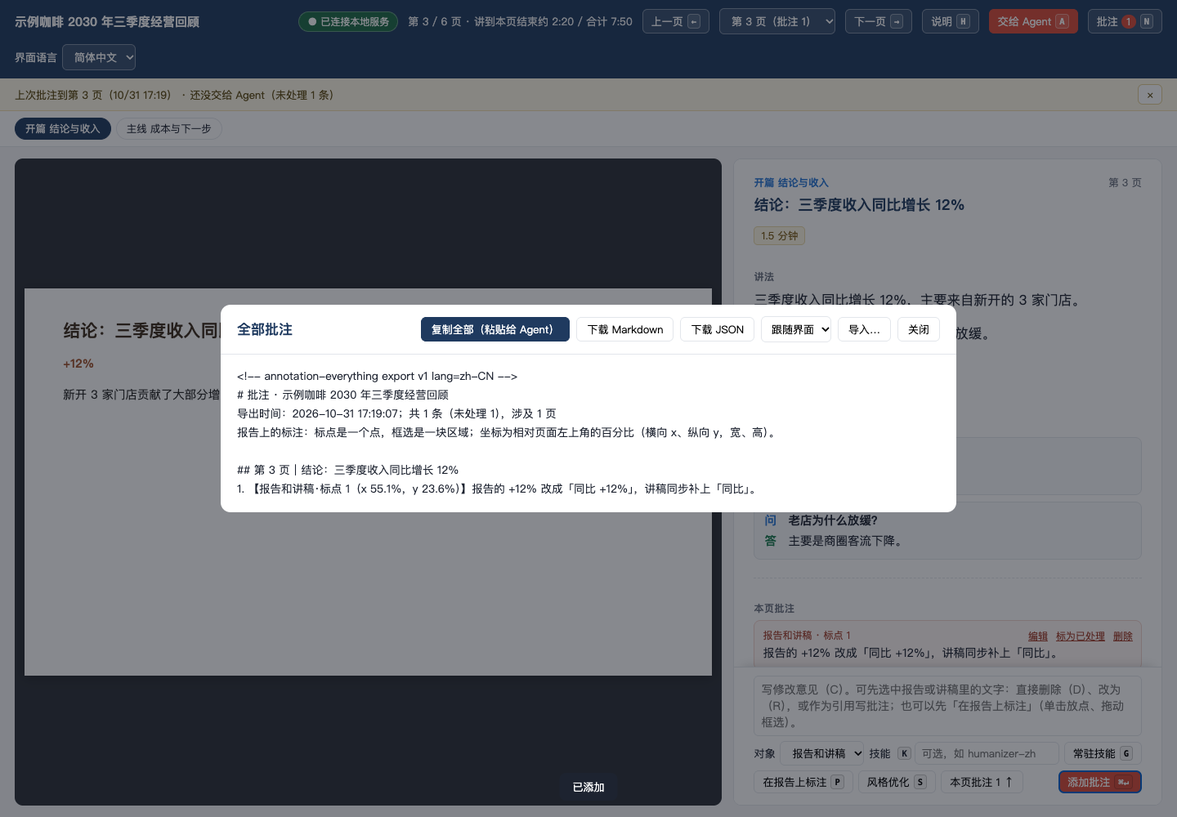
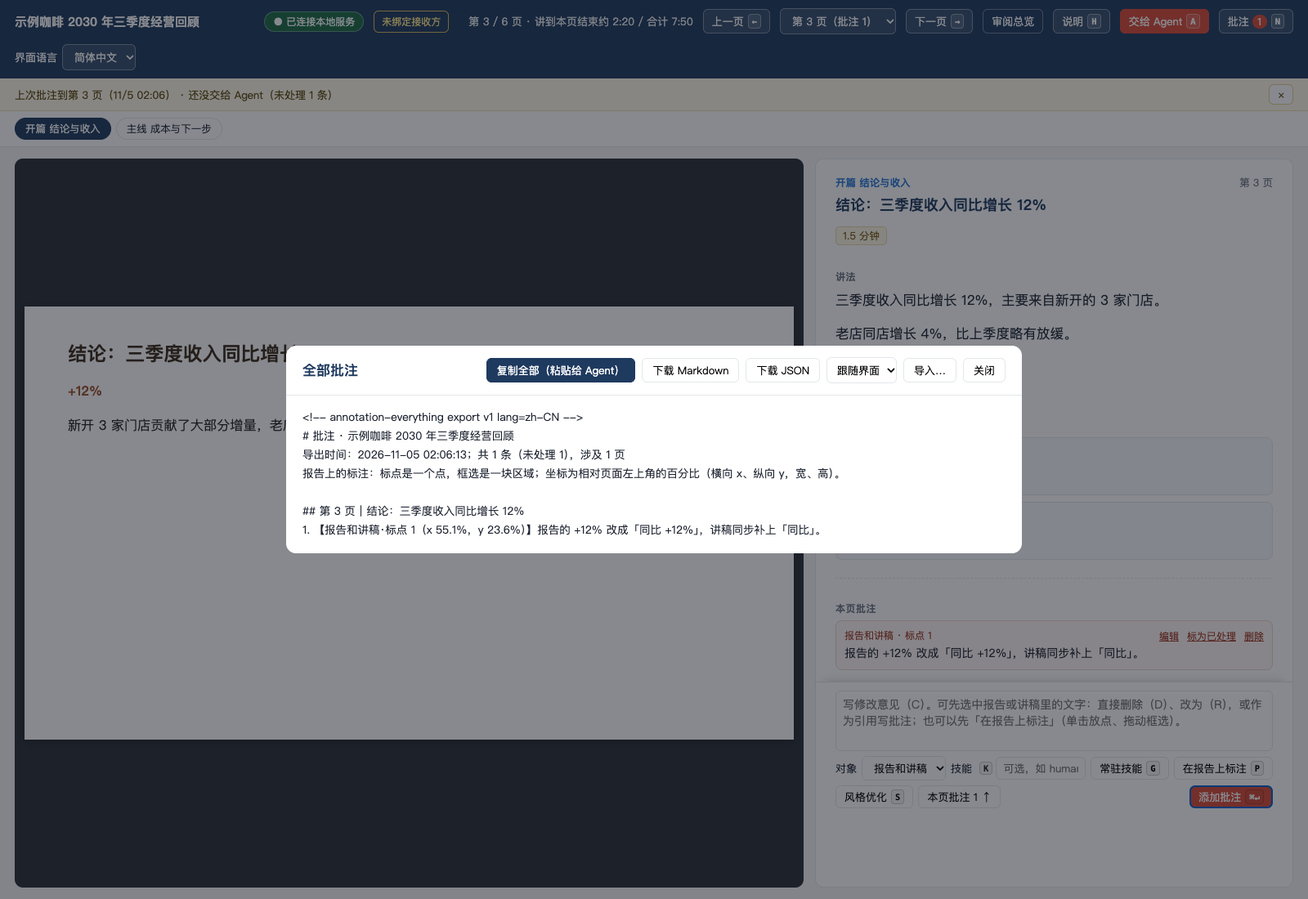
docs: 完善审阅总览指引与合成配图

diff --git a/tests/e2e_browser.py b/tests/e2e_browser.py
@@ -369,6 +369,66 @@ def review_overview_checks(browser, tmp: Path):
                                    "#overviewDetail dt, #overviewDetail h3, .overview-actions").all_text_contents()
         ok(not any("\u4e00" <= char <= "\u9fff" for char in "".join(system_copy)),
            "英文总览的系统文案没有中文残留")
+        artifacts = os.environ.get("AE_OVERVIEW_ARTIFACTS")
+        if artifacts:
+            output = Path(artifacts)
+            output.mkdir(parents=True, exist_ok=True)
+            # 行为断言完成后，用同一组合成审阅采集文档截图。
+            # 保留真实列表与 API，只把安全用例的正文换成可读的报告样例。
+            page.click("#overviewBack")
+            page.wait_for_function("() => !document.body.classList.contains('overview-mode')")
+            add_note(page, "请写清收入增长的对比期间（合成批注）")
+            page.click("#handBtn")
+            page.fill("#handMsg", "请同步核对报告和讲稿（合成提交）")
+            page.click("#doHand")
+            target_info = stopped / ".annotation-server.json"
+            target_port = json.loads(target_info.read_text())["port"]
+            target_url = f"http://127.0.0.1:{target_port}"
+            response = ctx.request.post(target_url + "/api/server/stop", data={},
+                                        headers={"Origin": target_url, "X-AE-Review": stopped_id,
+                                                 "Content-Type": "application/json"})
+            if not response.ok or not wait_until(lambda: not target_info.exists(), page, 5):
+                raise RuntimeError("截图前未能停止合成目标审阅")
+            archived_sample = workspace / "archived"
+            build(archived_sample, name="Sample Coffee · Previous review")
+            archived_id = json.loads((archived_sample / "review.json").read_text())["reviewId"]
+            source_url = f"http://127.0.0.1:{port}"
+            response = ctx.request.post(source_url + "/api/overview/archive",
+                                        data={"reviewId": archived_id, "archived": True},
+                                        headers={"Origin": source_url, "X-AE-Review": current_id,
+                                                 "Content-Type": "application/json"})
+            if not response.ok:
+                raise RuntimeError("截图前未能归档合成样例")
+            samples = (
+                ("zh-CN", "zh", "示例咖啡 · 三季度经营回顾", "示例咖啡 · 成本复盘",
+                 "汇总三季度经营表现，重点复核增长来源与成本变化。",
+                 {"purpose": "为下一季度经营安排提供依据", "audience": "经营委员会",
+                  "coreQuestions": ["收入增长由哪些因素带动？", "哪些成本需要进一步核实？"]}),
+                ("en", "en", "Sample Coffee · Q3 business review", "Sample Coffee · Cost review",
+                 "Review Q3 business performance, with a focus on growth drivers and changes in costs.",
+                 {"purpose": "Inform next quarter's operating plan", "audience": "Operating committee",
+                  "coreQuestions": ["What drove revenue growth?", "Which costs need further verification?"]}),
+            )
+            for locale, suffix, current_name, stopped_name, summary, request in samples:
+                source_report = FIXTURE / ("report.en.html" if locale == "en" else "report.html")
+                source_script = FIXTURE / ("script.en.md" if locale == "en" else "script.md")
+                shutil.copyfile(source_report, report)
+                record.update(summary=summary, request=request)
+                record["links"]["sha256"]["report"] = hashlib.sha256(report.read_bytes()).hexdigest()
+                (material / "report-record.json").write_text(json.dumps(record, ensure_ascii=False), encoding="utf-8")
+                build(current, report=source_report, script=source_script, name=current_name, locale=locale)
+                build(stopped, report=report, script=source_script, name=stopped_name, locale=locale)
+                page.goto(source_url + "/")
+                page.wait_for_function("() => document.getElementById('mode').classList.contains('server')")
+                page.select_option("#localePick", locale)
+                page.click("#overviewBtn")
+                page.wait_for_function("name => document.getElementById('overviewList').textContent.includes(name)",
+                                       arg=stopped_name)
+                page.click('[data-review-id="%s"]' % stopped_id)
+                page.wait_for_function("summary => document.getElementById('overviewDetail').textContent.includes(summary)",
+                                       arg=summary)
+                page.locator("#toast").wait_for(state="hidden")
+                page.screenshot(path=str(output / ("overview.%s.png" % suffix)))
     finally:
         info_path = stopped / ".annotation-server.json"
         if info_path.exists():
@@ -1924,6 +1984,7 @@ def current_task_controls_checks(browser, tmp: Path):
         if artifacts:
             output = Path(artifacts)
             output.mkdir(parents=True, exist_ok=True)
+            page.locator("#toast").wait_for(state="hidden")
             page.screenshot(path=str(output / "batch-controls.en.png"))
             page.select_option("#localePick", "zh-CN")
             page.screenshot(path=str(output / "batch-controls.zh.png"))
@@ -2215,11 +2276,14 @@ def installed_delivery_checks(browser, tmp: Path):
                 finally:
                     page.unroute(route_path, reject_with_detail)
             if output:
+                page.locator("#toast").wait_for(state="hidden")
+                page.set_viewport_size({"width": 1600, "height": 1100})
                 page.locator("#nlist").scroll_into_view_if_needed()
                 page.screenshot(path=str(output / "viewer.png"))
                 page.keyboard.press("n")
                 page.screenshot(path=str(output / "notes-export.png"))
                 page.keyboard.press("Escape")
+                page.set_viewport_size({"width": 1440, "height": 1000})
 
             # wait 必须在提交前启动，证明浏览器能唤醒安装副本中的接收命令。
             waiter = subprocess.Popen([sys.executable, str(scripts / "notes.py"), "wait", str(review),

diff --git a/README.en.md b/README.en.md
@@ -91,7 +91,11 @@ annotation-everything moves this whole process into a single page that runs on y
     </td>
   </tr>
   <tr>
-    <td colspan="2" valign="top">
+    <td valign="top">
+      <h4>📚 Review overview and archiving</h4>
+      Browse reviews in this workspace or across the machine, find material by status and activity, and inspect summaries and pending submissions. Open, start or archive a review in the browser.
+    </td>
+    <td valign="top">
       <h4>🔄 Automatic release updates</h4>
       The skill periodically checks its installation source for stable releases, installs and announces updates, and keeps the current copy when offline or locally modified.
     </td>
@@ -99,6 +103,16 @@ annotation-everything moves this whole process into a single page that runs on y
 </table>
 
 The review page can use Simplified Chinese or English. Pass `--locale auto`, `zh-CN`, or `en` when building; the page can switch language too, and the choice stays in this browser. Annotation text stays as written, and the stored target values `报告`, `讲稿`, and `报告和讲稿` do not change with the language. Omitting `--locale` keeps a new review in Chinese and leaves an existing review on its saved choice. Adding, editing, deleting and reopening annotations, quotes, quick delete and replace, pins and area selection, re-annotating, styling, page numbers, the speaker-notes column, Q&A labels, the help text, tooltips and accessible names all follow the current language, as do the confirmation dialogs. So do the skill box, its suggestions and "Suggested" tag, the empty result, the standing-skill scope labels and add/remove prompts, and the output of `notes.py skills`. Search still matches the skill catalog's original name and description, and the stored scope values `all` / `报告` / `讲稿` / `style` stay unchanged. Exported Markdown can be Chinese or English (following the interface by default); both the page and CLI can import either language. The "Hand to the agent" dialog, submission badge, batch history, resume hint and connection guidance also follow the current language. Submission options (finalize or stop at drafted, allow subagents, full check) do not depend on the interface language.
+
+### Review overview and archiving
+
+<p align="center"><img src="docs/assets/overview.en.png" alt="Synthetic review overview: status groups and a detail pane with the report summary, purpose, audience, core questions and start action" width="92%"></p>
+
+Choose "Review overview" on any running review page, or open `/#overview` at its address. The default scope is "This workspace"; switch to "All on this machine" to see other registered reviews. The workspace is the review's git repository root, or its parent directory when it is outside a git repository. Paths are relative; other workspace paths start with `~` or show only the review name. If no review is running, start one with `serve.py <review-id>` first.
+
+The list groups Running, Stopped, Archived and Invalid reviews, with the latest activity first within each group. Select a review to see its summary, purpose, audience, core questions and pending receipt/review counts. Choose "Open" for a running review or "Start and open" for a stopped one to open its page in a new tab. Starting uses its owned port; follow the error guidance before retrying a failed start. Invalid entries provide a `serve.py forget <short-id>` cleanup command. "Back to current review" returns to the page hosting the overview.
+
+Archiving hides reviews that are no longer being advanced from the default list. Annotations, submissions and the owned port remain, and the service keeps running. Choose "Expand" or "Show archived" to reveal them, then select a review and choose "Unarchive". An archived current review displays a banner in both views and still accepts annotations and submissions; archiving does not cancel submitted processing requirements. `serve.py list` still includes every review and marks archived entries.
 
 <details>
 <summary><b>Current task and stopping the local service</b></summary>
@@ -123,6 +137,8 @@ The first line of the Markdown is a format marker (`<!-- annotation-everything e
 When no report exists yet, give the agent your source material and requirements. The agent follows the [built-in generation guide](skill/annotation-everything/references/generation.en.md), shipped with the skill, to produce a page-by-page HTML report and optional speaker notes. It reuses requirements already supplied, asks only about missing details that affect the result, and uses the supplied [base report stylesheet](skill/annotation-everything/references/report-base.css) by default. When you name an available external generation skill, or the task needs an extension, an external method can be used. Its output receives the same verification, and the method actually used is recorded.
 
 Reading source material depends on the host's available capabilities. The agent records what was read, partly read or unreadable, including the scope and reasons, and preserves citations and calculation definitions for key claims and figures. Gaps are disclosed; if all substantive material is unreadable, the draft cannot be declared complete. The report, requested speaker notes and `report-record.json` verification record stay beside the controlled source material. The generation guide defines the record and the workflow.
+
+For a newly generated report, write a one- or two-sentence `summary` in its verification record to identify it in the overview. The field is optional and older records remain valid. Without it, the overview shows "(No summary)" with the cover title. The summary does not replace the report's verification verdict; see [step 4, "Write the verification record," in the generation guide](skill/annotation-everything/references/generation.en.md).
 
 “Draft complete” and “Report deliverable” are separate verdicts. Readable, structured material with disclosed gaps can form a reviewable draft. Delivery also requires program checks and content, structure and visual verification; gaps affecting core conclusions block delivery. `report_check.py` provides structured results and a readable summary, and checks deterministic rules only. The agent performs the content judgments and page-by-page visual checks; unperformed, unavailable or stale checks never count as passed. Existing reports without a record can still enter review directly, with no backfill required. Revisions to reports with a record maintain the affected verification info, while report quality stays separate from annotation-processing status.
 
@@ -317,8 +333,11 @@ See the [English format reference](skill/annotation-everything/references/format
 | `verify.py plan` / `run` / `report` | Unified verification entry run from the repository root: `plan` explains the groups and commands without starting anything (`plan --phase development` also shows what the current changes should run, why, and when it falls back to the full check); `run` executes and writes structured records plus raw logs into `.verify/` (git-ignored), records the shadow comparison between the suggested selection and the full gate by default, and lets later stages reference currently valid passing evidence (`--no-reuse` forces a full rerun); `report` only reads records and shows the evidence chain. Groups: `unit` (full unit), `unit-related` (explicitly named cases, always augmented with the global dictionary contract in `tests/test_i18n_catalog_contract.py`), `browser` (full browser), `serve-check` (server security self-check), `all` (runs `unit` → `serve-check` → `browser` in order). Field contract: [docs/verify/record-contract.md](docs/verify/record-contract.md), selection strategy: [docs/verify/selection-strategy.md](docs/verify/selection-strategy.md) |
 | `build_viewer.py --report … [--script …] --out <review-dir>` | Build the review page with optional speaker notes; `--rebuild <review-dir>` rebuilds it with the recorded options; `--locale auto`, `zh-CN`, or `en` sets the interface language. Omit it and a new review stays in Chinese; a rebuild keeps the saved choice |
 | `report_check.py report.html [--script script.md] [--record report-record.json]` | Public report verification entry: a readable summary by default, structured results with `--json`, and `--locale en` or `zh-CN` for the language. Exit 0 means program checks passed, not that the report is deliverable; 1 means checks failed; 2 means an input or usage error. Content, structure and visual coverage and delivery blockers are listed separately |
-| `serve.py <review-dir>` | Start the local server; each review keeps its own dedicated port |
-| `serve.py list` / `status` / `forget` | List every review on this machine, show one review's status, remove a ledger entry you no longer need |
+| `serve.py <review-dir-or-id>` | Start the local server; each review keeps its own dedicated port |
+| `http://127.0.0.1:<port>/#overview` (browser address) | Open the review overview to switch scope, inspect details, open or start reviews, and archive or unarchive them; start a local service first |
+| `serve.py list [--json]` | List every review on this machine, including archived entries; both readable output and JSON include an archive flag |
+| `serve.py status <review-dir-or-id>` | Show one review's running status |
+| `serve.py forget <short-id>` | Remove a ledger entry confirmed unnecessary and release its owned port while keeping the review directory. The overview provides this command for invalid entries; cleanup runs in the CLI |
 | `serve.py check` | Run the server's security self-check |
 | `wakeup.py bind` / `status` / `check` / `ack` / `unbind` | Bind the receiving harness and session and inspect identity and state; Codex desktop uses events, other harnesses can use `--adapter wait`; transfer with `bind --replace` after active batches finish |
 | `notes.py wait` / `claim` | Wait for a submission, or take one that is already waiting. `wait --locale` chooses the handoff language and preserves location, operation and skill requirements; `claim` keeps the original JSON values |
@@ -369,8 +388,9 @@ skill/annotation-everything/       the skill itself, copied as a whole on instal
 │   ├── i18n.py                    loads the shared catalogs and fills in the chosen language
 │   ├── update.py                  checks stable releases and updates the skill copy
 │   ├── content_manifest.py        fingerprints the skill copy's files, directories and links
-│   ├── viewer_template.html       review page template (server mode and local file mode)
+│   ├── viewer_template.html       review page and overview template (server mode and local file mode)
 │   ├── serve.py                   local server: serve / status / list / forget / check
+│   ├── review_overview.py         overview scope, report metadata, archiving and starting reviews
 │   ├── wakeup.py                  Receiving session binding; Codex events, receipts and deduplication
 │   ├── notes.py                   annotation command line: wait / show / resolve / done / review and more
 │   ├── notes_store.py             annotation storage: atomic writes, file locks, change log

diff --git a/README.md b/README.md
@@ -91,7 +91,11 @@ annotation-everything 把这套流程放进一个在本机运行的页面里：
     </td>
   </tr>
   <tr>
-    <td colspan="2" valign="top">
+    <td valign="top">
+      <h4>📚 审阅总览与归档</h4>
+      在浏览器里查看本工作区或本机全部审阅，按状态和最近活动找到材料，查看摘要与待处理提交；直接打开、代为启动或归档审阅。
+    </td>
+    <td valign="top">
       <h4>🔄 正式版本自动更新</h4>
       使用技能时定期检查安装来源的正式版本，自动更新并提示；离线或技能副本有本地改动时保留现有版本。
     </td>
@@ -99,6 +103,16 @@ annotation-everything 把这套流程放进一个在本机运行的页面里：
 </table>
 
 对照页可以选择简体中文或英文。生成时传入 `--locale auto`、`zh-CN` 或 `en`，页面上也可以切换，选择只保存在本机浏览器。批注原文保持原样，对象的存储值 `报告`、`讲稿`、`报告和讲稿` 不随语言改变。未配置语言时，新审阅保持中文，已有审阅沿用已保存的选择；`AE_LOCALE` 可覆盖已保存配置，显式参数优先。批注的新增、编辑、删除、重开、引用、快捷删除与改写、放点与框选、重新标注、风格优化、页码、讲稿栏、问答标签、编辑帮助、工具提示和无障碍名称都已支持两种语言；删除确认等对话框同样跟随当前语言。技能输入栏、候选与推荐、空结果、常驻技能的范围标签与增删提示，以及 `notes.py skills` 的输出也按当前语言显示；搜索仍按技能目录里的原始名称和原始说明匹配，常驻技能范围的存储值 `all` / `报告` / `讲稿` / `style` 不变。导出的 Markdown 可以选中文或英文（默认跟随界面），页面和命令行都能跨语言导入。「交给 Agent」弹窗、提交状态徽标、处理记录、回到上次提示和服务未连接时的提示也支持两种语言。提交选项（做到定稿还是停在待复核、是否允许派发子代理、是否全量勾稽）与界面语言无关。
+
+### 审阅总览与归档
+
+<p align="center"><img src="docs/assets/overview.zh.png" alt="合成审阅总览：按状态分组，右侧显示报告摘要、用途、读者、核心问题与启动操作" width="92%"></p>
+
+从任一正在运行的对照页点击「审阅总览」，或打开它的 `/#overview` 地址。默认显示「本工作区」，也可切到「本机全部」。工作区取审阅所在的 git 仓库根目录；不在 git 仓库里时，取审阅目录的上一级。总览显示相对路径，其他工作区的路径用 `~` 开头或只显示审阅名。没有任何审阅运行时，先用 `serve.py <审阅标识>` 启动一份。
+
+左侧按「运行中 / 已停 / 已归档 / 失效」分组，组内按最近活动时间倒序；选中后可看摘要、用途、读者、核心问题、待接收和待复核数。运行中的点「打开」，已停的点「启动并打开」，在新标签页打开目标对照页。代为启动使用专属端口；失败时按提示处理后重试。失效条目提供 `serve.py forget <短标识>` 清理命令。总览里的「回到当前审阅」返回托管它的对照页。
+
+归档把不再推进的审阅从默认列表里收起，保留批注、提交和专属端口，服务继续运行。点击「展开」或勾选「显示已归档」可取消归档。当前审阅已归档时，两种视图都显示横幅，批注和提交照常可用；归档不取消已经提交的处理要求。`serve.py list` 仍列出全部审阅，并标出已归档项。
 
 <details>
 <summary><b>当前任务与停止本地服务</b></summary>
@@ -123,6 +137,8 @@ Markdown 的第一行是格式标记（`<!-- annotation-everything export v1 lan
 还没有报告时，可将原始材料与需求交给 Agent，按随技能安装的[内置生成范式](skill/annotation-everything/references/generation.zh-CN.md)生成逐页 HTML 报告和可选讲稿。已明确的需求直接沿用，只补问影响结果的缺项；默认提供[报告基础样式](skill/annotation-everything/references/report-base.css)。用户指定可用的外部生成技能，或任务需要扩展时，可以采用外部方法，产物接受相同核验，并记录实际采用的方法。
 
 材料读取依赖宿主实际可用的能力。Agent 登记已读、部分读取或无法读取的范围与原因，保留关键结论、数值的引用和计算口径；缺口如实披露，全部实质材料不可读时不能宣布初稿完成。报告、所需讲稿与 `report-record.json` 核验记录保存在受控材料位置，记录契约和操作步骤见生成指引。
+
+新生成的报告在核验记录里写一两句 `summary`，供总览识别。字段可选，旧记录仍合法；没有摘要时，总览显示「（无摘要）」和封面页标题。摘要不替代报告核验结论，写法见[生成指引第 4 步「写核验记录」](skill/annotation-everything/references/generation.zh-CN.md)。
 
 「初稿生成完成」与「报告可交付」分别判定：内容可读、结构完整、可审阅且缺口已披露，可以形成初稿；可交付还须通过程序检查和内容、结构、视觉核验，影响核心结论的缺口会阻止交付验收。`report_check.py` 提供结构化结果与可读摘要，只执行确定规则；内容判断与逐页视觉检查由 Agent 实际执行，未执行、无法执行或过期的结果不计为通过。已有报告没有核验记录时仍可直接审阅，无需补建；带记录的报告改稿后维护受影响的核验信息，报告质量判定与批注处理状态分别保留。
 
@@ -317,8 +333,11 @@ python3 $S/notes.py wait /tmp/ae-demo
 | `verify.py plan` / `run` / `report` | 仓库根目录的统一验证入口：`plan` 解释将执行哪些组与命令，不启动测试（`plan --phase development` 还给出当前改动选测建议与回退原因）；`run` 执行并把结构化记录和原始日志写进 `.verify/`（已忽略），默认影子模式记录选测建议与完整检查的对照，并把当前仍有效的通过证据跨阶段引用给后续阶段（`--no-reuse` 强制全部重跑）；`report` 只读记录并展示证据链。组有 `unit`（完整单元）、`unit-related`（显式指定的相关单元，自动附带 `tests/test_i18n_catalog_contract.py` 的全局词典一致性契约）、`browser`（完整浏览器）、`serve-check`（服务安全自检）、`all`（按 `unit` → `serve-check` → `browser` 顺序执行）。字段契约见 [docs/verify/record-contract.md](docs/verify/record-contract.md)，选测策略见 [docs/verify/selection-strategy.md](docs/verify/selection-strategy.md) |
 | `build_viewer.py --report … [--script …] --out 审阅目录` | 生成对照页；讲稿可选；`--rebuild 审阅目录` 按上次记录的参数重新生成；`--locale auto`、`zh-CN` 或 `en` 设定界面语言，省略时新审阅保持中文，重建沿用已保存的选择 |
 | `report_check.py 报告.html [--script 讲稿.md] [--record report-record.json]` | 公开报告核验入口：输出可读摘要，`--json` 输出结构化结果，`--locale zh-CN` 或 `en` 选择语言。退出码 0 表示程序检查通过，不等于报告可交付；1 表示检查未通过；2 表示输入或用法错误。内容、结构与视觉覆盖及交付阻塞项分别列出 |
-| `serve.py 审阅目录` | 启动本机服务；每份审阅都有固定的专属端口。`--locale auto\|zh-CN\|en` 或 `AE_LOCALE` 选诊断说明的语言 |
-| `serve.py list` / `status` / `forget` | 列出本机所有审阅、查看某份审阅的状态、删除不再使用的台账记录 |
+| `serve.py 审阅目录或审阅标识` | 启动本机服务；每份审阅都有固定的专属端口。`--locale auto\|zh-CN\|en` 或 `AE_LOCALE` 选诊断说明的语言 |
+| `http://127.0.0.1:<端口>/#overview`（浏览器地址） | 打开审阅总览：切换范围、查看详情、打开或代为启动审阅、归档或取消归档；先启动一份本机服务 |
+| `serve.py list [--json]` | 列出本机全部审阅，包含归档项；人读输出和 JSON 都带归档标记 |
+| `serve.py status 审阅目录或审阅标识` | 查看一份审阅的运行状态 |
+| `serve.py forget <短标识>` | 移除确认不再需要的台账记录并释放专属端口；保留审阅目录。总览对失效项提供这条命令，清理仍在命令行执行 |
 | `serve.py check` | 运行服务安全自检 |
 | `wakeup.py bind` / `status` / `check` / `ack` / `unbind` | 绑定接收 harness 与会话、查看身份与状态；Codex 桌面使用事件接收，其他 harness 可用 `--adapter wait`；显式交接用 `bind --replace`，处理中批次先收尾 |
 | `notes.py wait` / `claim` | 等待审阅人提交，或直接接收已有的提交。`wait --locale` 选择交接语言，保留定位、操作与技能要求；`claim` 输出的 JSON 保持原始值 |
@@ -369,8 +388,9 @@ skill/annotation-everything/       技能本体，安装时整体复制
 │   ├── i18n.py                    读取共享词典，并按所选语言插值
 │   ├── update.py                  检查正式版本并更新技能副本
 │   ├── content_manifest.py        记录技能副本的文件、目录和链接指纹
-│   ├── viewer_template.html       对照页模板（服务模式和本地文件模式）
+│   ├── viewer_template.html       对照页与审阅总览模板（服务模式和本地文件模式）
 │   ├── serve.py                   本机服务：serve / status / list / forget / check
+│   ├── review_overview.py         总览范围、报告摘要、归档与代为启动
 │   ├── wakeup.py                  接收会话绑定；Codex 事件投递、回执与去重
 │   ├── notes.py                   批注命令行：wait / show / resolve / done / review 等
 │   ├── notes_store.py             批注存储：原子写入、文件锁、操作日志

diff --git a/skill/annotation-everything/references/workflow.zh-CN.md b/skill/annotation-everything/references/workflow.zh-CN.md
@@ -18,7 +18,7 @@
 ## 0. 开工前：看本机有哪些审阅
 
 ```bash
-python3 $S/serve.py list                 # 全部审阅：审阅名、专属端口、运行状态、待接收的提交、有没有代理在等
+python3 $S/serve.py list                 # 全部审阅：审阅名、专属端口、运行状态、归档标记、待接收的提交、有没有代理在等
 python3 $S/serve.py list --under 项目目录  # 只看某个项目里的
 ```
 
@@ -28,6 +28,18 @@ python3 $S/serve.py list --under 项目目录  # 只看某个项目里的
 - `serve.py`、`notes.py` 里写审阅目录的地方都可以改写审阅标识（至少前 4 位），从台账查目录：`serve.py acd0afb3`、`notes.py show acd0afb3`（`build_viewer.py` 仍要写目录）。带 `/`、以 `.` 或 `~` 开头的一律按路径处理。
 - 复制出来的审阅目录在 `--rebuild` 换标识之前不会登记进台账，也不会用原审阅的专属端口（命令会提示先重建）。
 - 台账里标「目录不在」「标识不符」的条目不会自动删除，专属端口也保留（外接盘可能只是没挂上）。确认不用了再 `serve.py forget <标识前缀>`，端口随之释放；审阅目录本身不动。
+
+### 在浏览器中查看审阅总览
+
+先启动一份审阅的本地服务；没有服务运行时，用 `python3 $S/serve.py <审阅标识>` 启动。随后在对照页点击「审阅总览」，或打开这份审阅地址下的 `/#overview`，也可以在新标签页打开总览。
+
+- 默认范围是「本工作区」；切到「本机全部」可查看同一台账里的其他审阅。工作区取当前审阅所在的 git 仓库根目录；审阅不在 git 仓库里时，取审阅目录的上一级。路径按工作区相对位置显示，其他工作区的路径用 `~` 开头或只显示审阅名。
+- 列表按「运行中 / 已停 / 已归档 / 失效」分组，组内按最近活动时间倒序。选中审阅后，右侧显示摘要、用途、读者、核心问题、待接收和待复核数。没有摘要时显示「（无摘要）」和封面页标题；材料原文不随界面语言翻译。
+- 运行中的审阅点「打开」，已停的审阅点「启动并打开」，都会在新标签页打开目标对照页。代为启动使用目标的专属端口；端口被占用或启动失败时，按提示处理后重试。启动服务不会替 Agent 配置接收方或等待机制，仍按第 2 节核对。点「回到当前审阅」可返回托管总览的对照页。
+- 归档表示审阅不再推进，默认收起；批注、提交和专属端口都保留，服务继续运行。点击「展开」或勾选「显示已归档」后可取消归档。当前审阅已归档时，对照页和总览都显示横幅，批注与提交仍可使用。**归档不代表停止处理已提交的批注**，仍按批次要求处理。
+- 失效条目不能打开，详情提供 `serve.py forget <短标识>` 命令。确认不再需要登记后，再从命令行移除台账记录；总览不删除审阅目录。
+
+生成新报告时，在核验记录里写一两句供总览识别的 `summary`；字段可选，旧记录无需补建。写法见[生成指引第 4 步「写核验记录」](generation.zh-CN.md)。
 
 ## 1. 生成对照页
 

diff --git a/skill/annotation-everything/references/workflow.en.md b/skill/annotation-everything/references/workflow.en.md
@@ -17,6 +17,18 @@ Choose `--locale en`, `zh-CN`, or `auto` explicitly when requested. The page's s
 
 CLI commands accept `--locale` and `AE_LOCALE`. An explicit option wins, then the environment, then the review setting for review-specific commands. Unconfigured calls remain Chinese. Only `auto` follows the system language. The repository's `ae.py` has no review default. Use `notes.py export --lang en` to select the export wrapper language. Commands and raw JSON values stay unchanged. Inspect `--help` for the command's arguments.
 
+### Use the review overview in the browser
+
+Start a local review service first. If none is running, use `python3 "$S/serve.py" <review-id>`. Then choose "Review overview" on its review page, or open `/#overview` at that review's address. The overview can also stay open in a separate tab.
+
+- The default scope is "This workspace"; choose "All on this machine" to see other reviews in the same ledger. The workspace is the current review's git repository root, or the review directory's parent when it is outside a git repository. Paths are relative to the workspace; paths in other workspaces start with `~` or show only the review name.
+- Reviews are grouped as Running, Stopped, Archived and Invalid, with the latest activity first within each group. Select a review to see its summary, purpose, audience, core questions and pending receipt/review counts. A missing summary shows "(No summary)" with the cover title. Material text retains its original language.
+- Choose "Open" for a running review or "Start and open" for a stopped review. Both open the target review page in a new tab. Starting uses the target's owned port; if the port is occupied or startup fails, follow the error guidance before retrying. Starting the service does not configure an agent receiver or waiter; check those separately under section 4. "Back to current review" returns to the page hosting the overview.
+- Archiving means the review is no longer being advanced and hides it by default. Annotations, submissions and the owned port remain, and the service keeps running. Choose "Expand" or "Show archived" to reveal archived reviews, then select one and choose "Unarchive". An archived current review shows a banner in both views and still accepts annotations and submissions. **Archiving does not cancel work on submitted annotations**; continue according to the batch requirements.
+- Invalid entries cannot be opened. Their details provide `serve.py forget <short-id>`. Once the entry is confirmed unnecessary, remove it from the ledger using the CLI. The overview does not delete review directories. `serve.py list` and `list --json` still include all reviews and mark archived entries.
+
+When generating a new report, write a one- or two-sentence `summary` in its verification record so the overview can identify it. This optional field requires no backfill for older records. See [step 4, "Write the verification record," in the generation guide](generation.en.md).
+
 ## 2. Generate or rebuild the page
 
 ```bash
